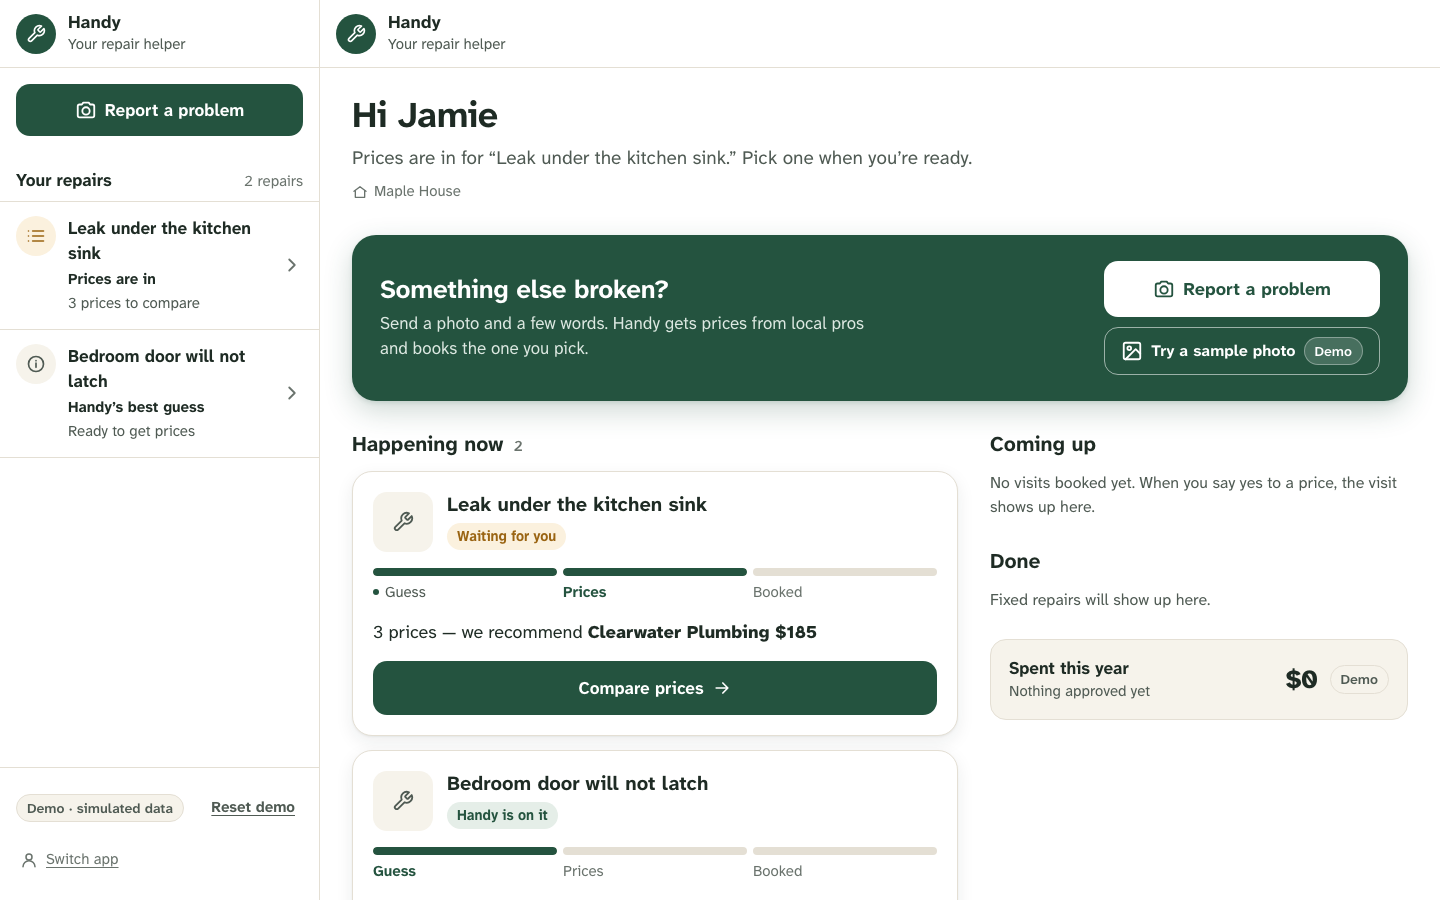
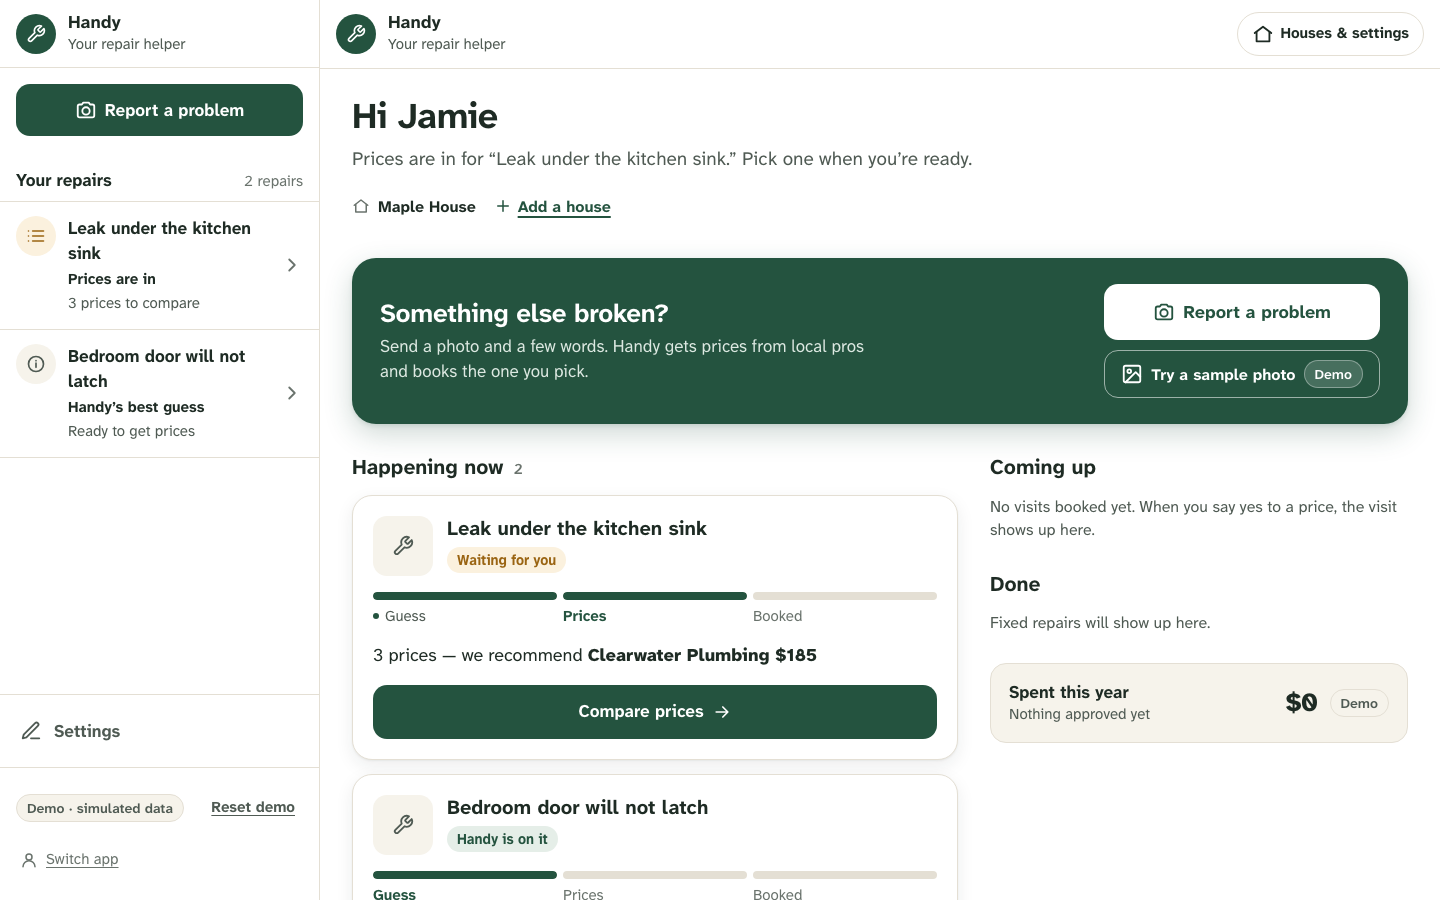
Update design files for review round 2
- DESIGN.md: round 2 review table (no hint or name field, house dropdown and
  settings, three-column comparison, 2-hour slot picking, new prices continue
  the chat); dashboards and components updated
- screens: 12 fresh screenshots of the current app

diff --git a/docs/design/DESIGN.md b/docs/design/DESIGN.md
@@ -12,35 +12,51 @@ Handy is for people who are not technical. Each repair is a chat thread with Han
 
 ## UI/UX review (applied)
 
+**Round 1**
+
 | Review point | What changed |
 |---|---|
-| Make optional fields obvious; remove useless ones (the room doesn't matter) | The report form asks only "What's happening?" (required). The name is optional, muted and filled in for you. Room and urgency questions are gone; the app sends defaults. |
+| Make optional fields obvious; remove useless ones (the room doesn't matter) | The report form asks only "What's happening?" (required). Room and urgency questions are gone; the app sends defaults. |
 | Remove "How soon does it need fixing?" | Removed. |
 | Fully autonomous after Send, straight to the prices with pros and cons and one recommended | After Send, Handy creates the repair, calls pros and shows every option with plain-word pros and cons. One option is marked "Recommended" with a one-line reason. No taps in between. |
 | Remove "Extra work needs my OK first." | The consent line is "I approve this pro and this provisional price." |
-| "Yes, approve" must finish everything | "Yes, approve and book $X" approves and books the earliest time the pro offered, in one tap. The time can be changed afterwards. |
+| "Yes, approve" must finish everything | "Yes, approve and book $X" approves and books in one tap (see round 2 for picking times). |
 | Big focus on the dashboard; two versions, homeowner and property manager | Two apps with a chooser at `/app/`: `owner.html` and `manager.html`, each with its own dashboard (below). |
 
-Approval stays explicit: nothing is booked until the user ticks consent and taps yes, and an approval record is written first (PRD principle 1).
+**Round 2**
+
+| Review point | What changed |
+|---|---|
+| Remove "Say which room it's in. Mention any smell of gas, sparks or flooding." | Removed. |
+| Remove the "Name it" field | Removed; the list title comes from the description. |
+| A dropdown of all the houses instead of a single house, with a way to add a house in settings | "Which house?" dropdown in both apps with an "Add a house" link. A Settings page lists houses and adds new ones (saved on the server). Homeowners see their own homes; managers see every property. |
+| Three columns with side-by-side comparison | The prices are three equal columns with aligned rows: price, rating, when they can come, guarantee, pros, cons, button. The recommended column is outlined. On phones the columns swipe. |
+| Choose availability as 2-hour time slots | The approval sheet asks "When are you free?" with 2-hour slots by day (8–10, 10–12, 12–2, 2–4, 4–6 over three days). Pick up to 6; Handy books the first one the pro can do. |
+| "Get new prices" should continue as a new sent message | The earlier prices stay in the chat. "Get new prices" appears as the user's message, Handy calls again, and the fresh comparison follows. |
+
+Approval stays explicit: nothing is booked until the user picks a time, ticks consent and taps yes, and an approval record is written first (PRD principle 1).
 
 ## Two apps
 
-**Homeowner (`owner.html`).** A dashboard for one home: a greeting with a one-line status, a large "Report a problem" panel, "Happening now" cards (each shows its step on a Guess → Prices → Booked tracker, the key fact and one next action), "Coming up" visits with "Add to calendar", "Done", and money spent this year.
+**Homeowner (`owner.html`).** A dashboard for your homes: a greeting with a one-line status and your houses, a large "Report a problem" panel, "Happening now" cards grouped by house (each shows its step on a Guess → Prices → Booked tracker, the key fact and one next action), "Coming up" visits with "Add to calendar", "Done", and money spent this year.
 
 **Property manager (`manager.html`).** A portfolio dashboard:
 - "Needs you": items waiting for a decision, each with one action; hazards in red.
-- One block per property: address, unit, tenant, open/booked/fixed counts, its repairs, "Report a problem here".
+- One block per property: address, unit, tenant, open/booked/fixed counts, its repairs, "Report a problem here"; "Add a property".
 - This week's visits, spend per property (bar chart), and a funnel from reported to booked, plus a full Insights view.
+
+Both apps have a Settings page for houses, reachable from the side menu and the dashboard header.
 
 ## Screens
 
 | | |
 |---|---|
 | ![Chooser](screens/01-chooser.png) | ![Homeowner dashboard](screens/02-owner-dashboard.png) |
-| ![Report a problem](screens/03-report.png) | ![Prices with pros and cons](screens/04-prices-recommended.png) |
-| ![Approve and book](screens/05-approve-and-book.png) | ![Booked](screens/06-booked.png) |
-| ![Manager dashboard](screens/07-manager-dashboard.png) | ![Insights](screens/08-manager-insights.png) |
-| ![Homeowner on a phone](screens/09-owner-dashboard-phone.png) | ![Manager on a phone](screens/10-manager-dashboard-phone.png) |
+| ![Report a problem with house dropdown](screens/03-report.png) | ![Three-column price comparison](screens/04-prices-compare.png) |
+| ![Pick 2-hour slots and approve](screens/05-pick-slots-and-approve.png) | ![Booked](screens/06-booked.png) |
+| ![Get new prices continues the chat](screens/07-new-prices-continue.png) | ![Settings: your houses](screens/08-settings-houses.png) |
+| ![Manager dashboard](screens/09-manager-dashboard.png) | ![Insights](screens/10-manager-insights.png) |
+| ![Homeowner on a phone](screens/11-owner-dashboard-phone.png) | ![Manager on a phone](screens/12-manager-dashboard-phone.png) |
 
 ## Visual system
 
@@ -86,7 +102,7 @@ Chat bubbles radius 20 with a 6px "tail" corner (bottom-left for Handy, bottom-r
 
 ### Components
 
-Pinned status card with a 3-step tracker; Handy and user bubbles; typing dots; live call rows (Waiting → Ringing → Talking → Got a price / Didn't pick up); price cards with pros/cons and a Recommended tag; approval sheet that repeats everything back; booked card with "Add to my calendar" (.ics); activity timeline.
+Pinned status card with a 3-step tracker; Handy and user bubbles; typing dots; live call rows (Waiting → Ringing → Talking → Got a price / Didn't pick up); three-column price comparison with aligned pros/cons and a Recommended column; approval sheet that repeats everything back and asks for 2-hour slots; booked card with "Add to my calendar" (.ics); activity timeline.
 
 ### Words
 
